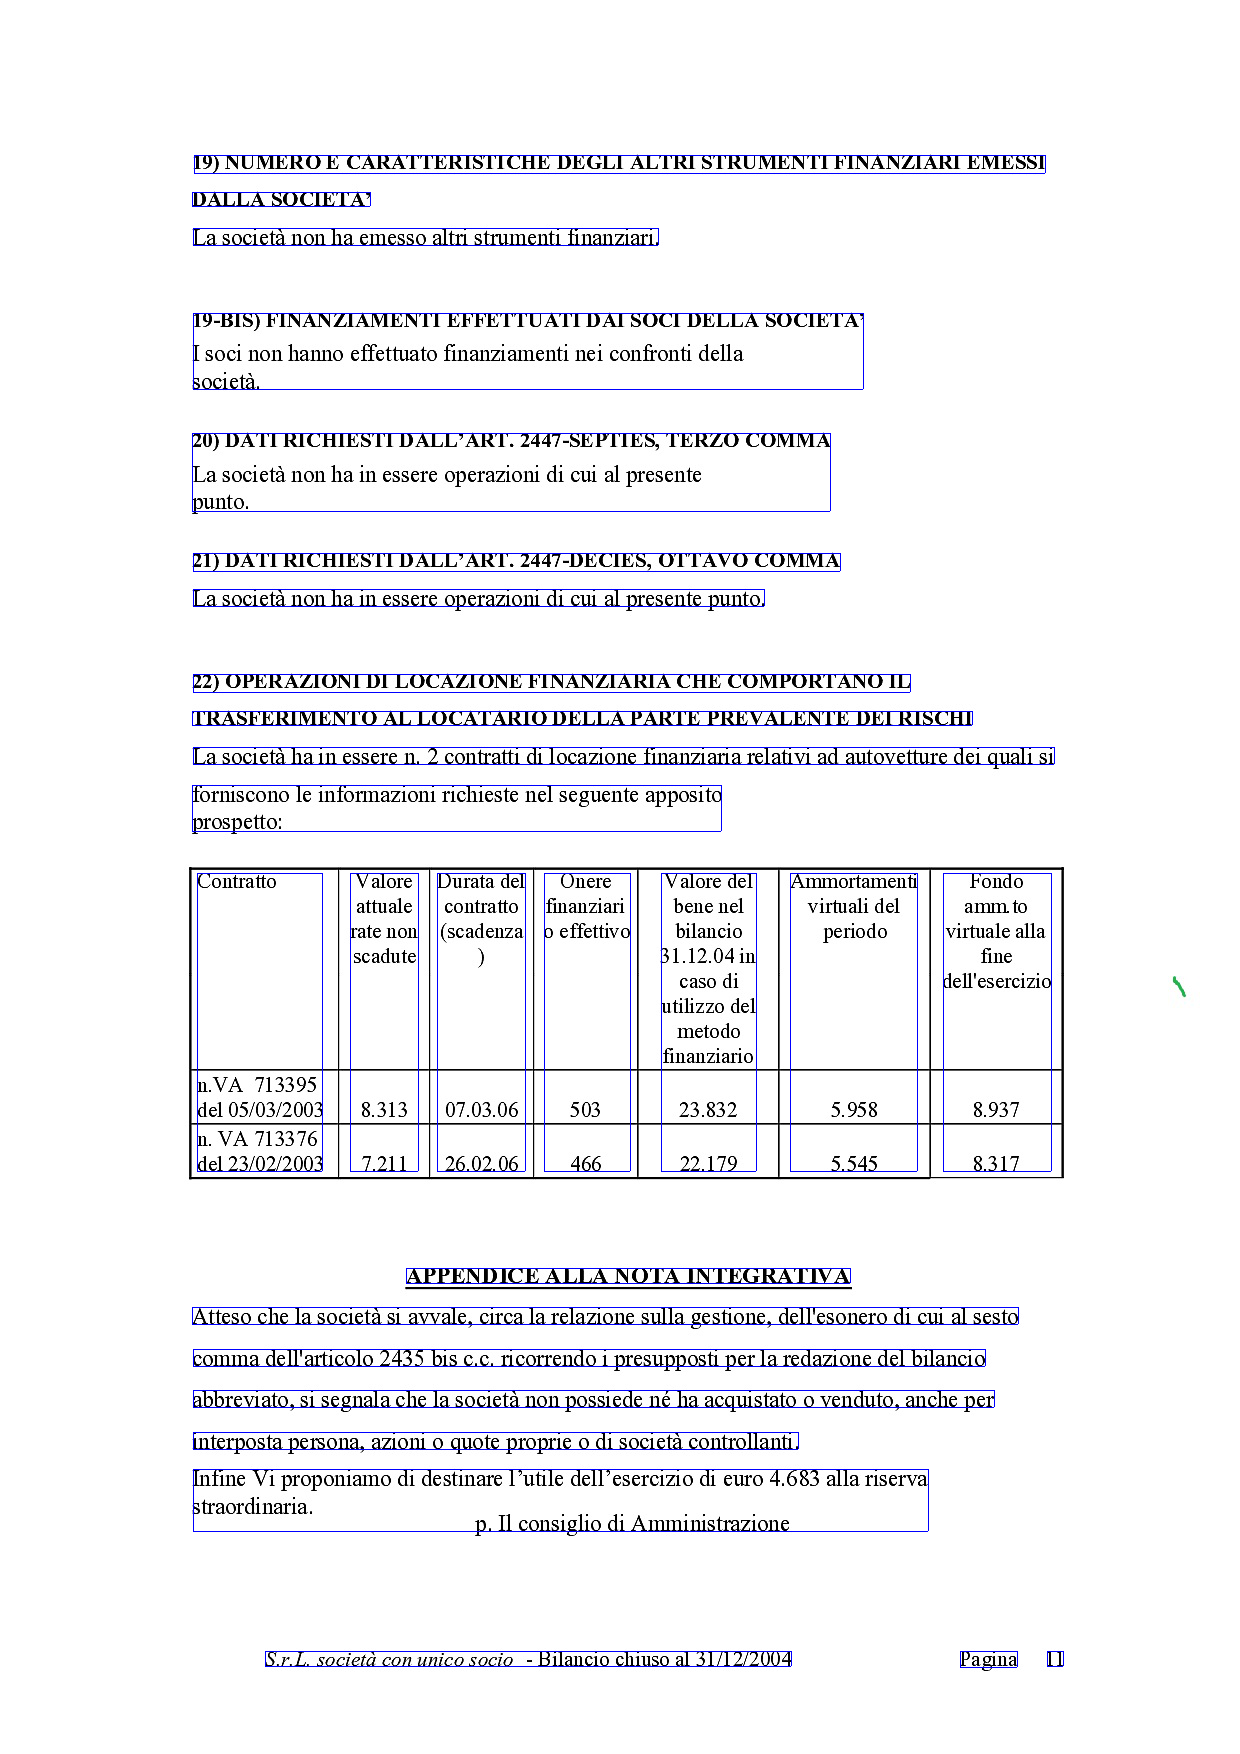
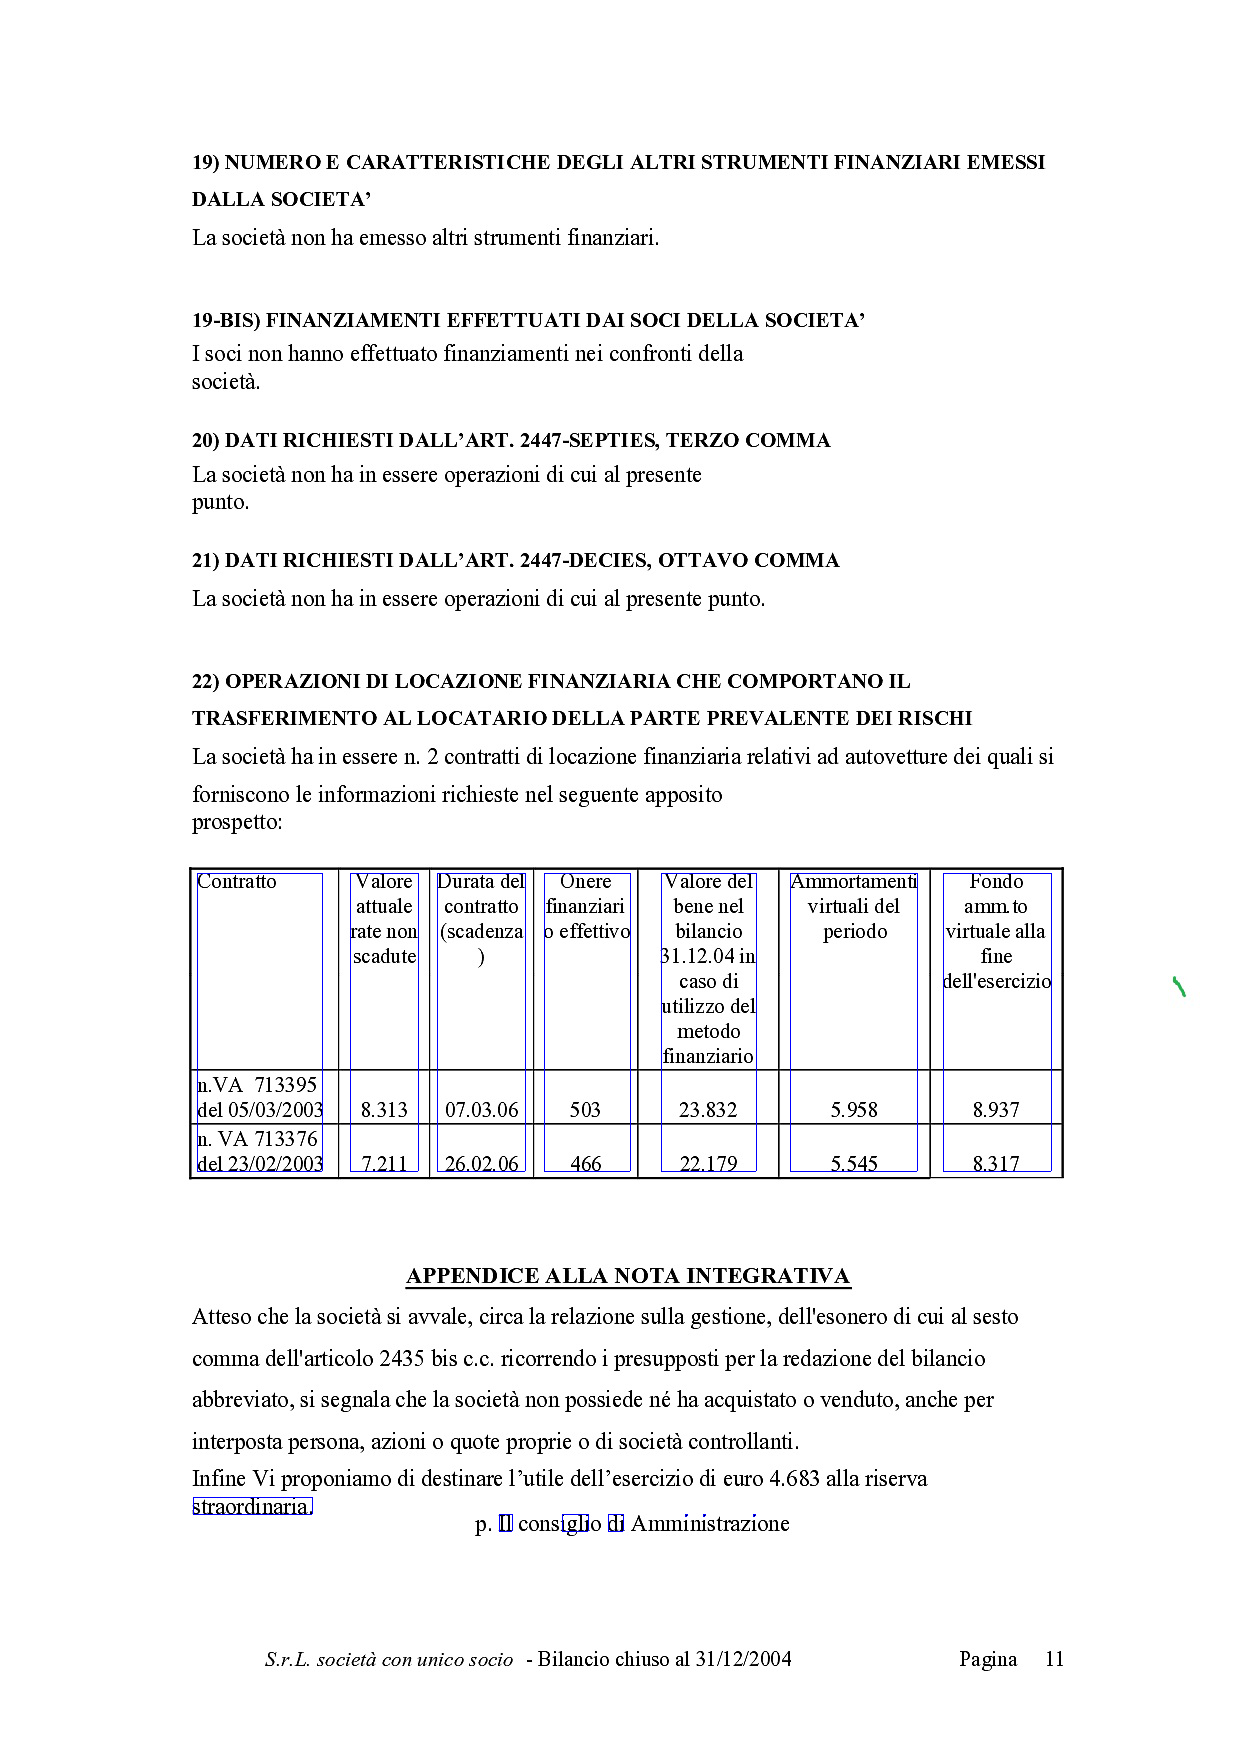
simple footer deletion added

diff --git a/tabularOCR/src/ocr_process/process.cpp b/tabularOCR/src/ocr_process/process.cpp
@@ -366,10 +366,39 @@ namespace ocr
 		font_cat.spaces.push_back(ws);
 	}
 
+	void delete_footer(std::vector<font_category> & font_cat)
+	{
+		// sort all line vectors
+		for (int i = 0; i < font_cat.size(); i++)
+			std::sort(font_cat[i].lines.begin(), font_cat[i].lines.end(),
+				[](std::vector<BOX*> & a, std::vector<BOX*> & b) { return a[0]->y < b[0]->y; });
+
+		std::sort(font_cat.begin(), font_cat.end(),
+			[](font_category & a, font_category & b) { return a.lines[a.lines.size() - 1][0]->y > b.lines[b.lines.size() - 1][0]->y; });
+
+		// the font category with the lines at the end of the page is the first category in font_cat vector
+
+		auto lines = font_cat.back().lines;
+
+		// TO-DO - calculate footer threshold by something different than a constant
+
+		int i = lines.size() - 1;
+		while (i > 0)
+		{
+			// deal with multi-line footers
+			int line_diff = get_y_axis(lines[i]) - get_y_axis(lines[i - 1]) - get_char_height(lines[i - 1]);
+			if (line_diff > FOOTER_THRESHOLD)
+				break;
+			i--;
+		}
+		if ((get_y_axis(lines[i]) - get_y_axis(lines[i - 1]) - get_char_height(lines[i - 1])) > FOOTER_THRESHOLD)
+			font_cat.back().lines.erase(font_cat.back().lines.begin()+i);
+	}
+
 	void process_image()
 	{
 
-		Pix *img = pixRead("E:/bachelor_thesis/tabularOCR/test_images/img/5.jpg");
+		Pix *img = pixRead("D:/bachelor_thesis/tabularOCR/test_images/img/5.jpg");
 		if (img->d == 8)
 			img = pixConvert8To32(img);
 
@@ -450,6 +479,8 @@ namespace ocr
 			}
 		}
 
+		delete_footer(font_cat);
+
 		// merge into words and columns
 		std::vector<std::vector<BOX*>> all_cols = {};
 		for (size_t i = 0; i < font_cat.size(); i++)
@@ -501,7 +532,7 @@ namespace ocr
 			}
 		}
 
-		std::string out = "E:/bachelor_thesis/tabularOCR/out5.jpg";
+		std::string out = "D:/bachelor_thesis/tabularOCR/out5.jpg";
 		char* path = &out[0u];
 		pixWrite(path, img, IFF_PNG);
 		api->End();
@@ -509,3 +540,13 @@ namespace ocr
 	}
 
 }
+
+/*
+TO DO:
+- determine footer threshold differently than by a constant
+- single row tables -> delete
+- preprocess multiple dots ... in an image -> delete
+- allow minor mistakes in alingments
+- full-page tables - whitespace problem, determine whitespace differently? 
+
+*/

diff --git a/tabularOCR/src/ocr_process/process.h b/tabularOCR/src/ocr_process/process.h
@@ -12,6 +12,8 @@ namespace ocr
 
 	const size_t COL_THRESHOLD = 10;
 
+	const size_t FOOTER_THRESHOLD = 15;
+
 	const double REF_FONT_SIZE = 19;
 
 	struct font_category
@@ -70,6 +72,8 @@ namespace ocr
 	void box_merge_vertical(BOX* result, BOX* to_add);
 
 	void merge_cols(std::vector<std::vector<BOX*>> & page);
+
+	void delete_footer(std::vector<font_category> & font_cat);
 
 	bool are_in_same_col(BOX* first, BOX* second);
 
